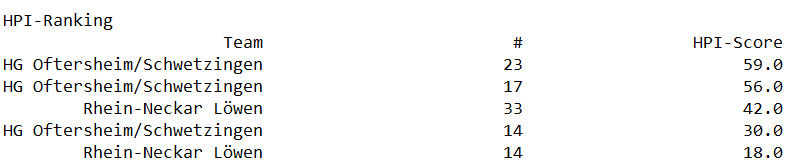
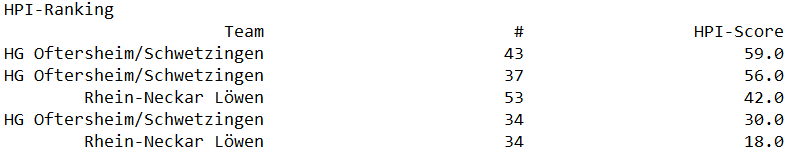
HBmeta updated

diff --git a/_pages/HandballMeta.md b/_pages/HandballMeta.md
@@ -86,7 +86,7 @@ At this level of U15 handball, game tempo is generally intense. In this match, e
   <a href="../assets/img/PS_bsp.png" target="_blank">
     <img src="../assets/img/PS_bsp.png" alt="PS" width="650px" style="border-radius: 8px;">
   </a>
-  <figcaption style="text-align: center; font-size: 0.9em; color: #555;">TOP5 of HPI and Playerscore</figcaption>
+  <figcaption style="text-align: center; font-size: 0.9em; color: #555;">TOP5 of HPI and Playerscore (Numbers changed)</figcaption>
  </figure> 
 Let us stop this analysis here for now. I hope to show the depth of insight that can be gained from a single game in this example. While not every insight requires detailed statistics, and some may be less relevant, deeper analysis almost always uncovers valuable findings that might otherwise be missed.
 For an example of a full-season analysis, take a look at the article I wrote for [hghandball.de](https://www.hghandball.de/saisonbericht-mal-anders/).
